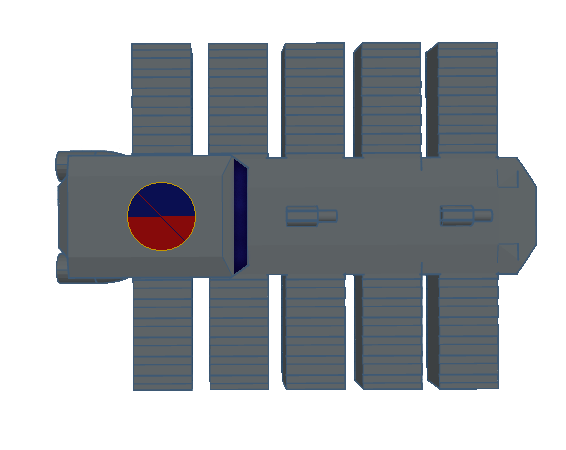
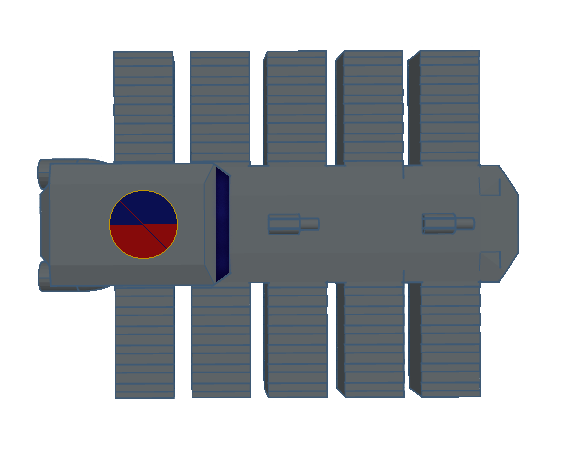
Add shield overlays, health/shield bar to HUD

Changed region(s): [[0.0601, 0.0933, 0.9611, 0.9022], [0.7208, 0.4356, 0.871, 0.5289]]

diff --git a/static/js/ship.js b/static/js/ship.js
@@ -54,8 +54,25 @@ class Ship extends Phaser.GameObjects.Sprite {
         // this.updateBars();
 
         this.fireMissileTimer = null;
+        this.add_shield_overlay();
 
         // this.once('destroy', this.onPlayerShipDestroyed, this);
+    }
+
+    
+    add_shield_overlay() { 
+      console.log("Adding shield overlay to ship: ", this);
+      let aspectRatio = this.height / this.width;
+      let shield = this.scene.add.image(this.x, this.y, 'shieldOverlay');
+
+      shield.setOrigin(0.5, 0.5);
+      shield.setAlpha(0.6);
+      shield.displayWidth = this.displayWidth * 1.1;
+      shield.displayHeight = this.displayHeight * 1.1;
+
+      // shield.setScale(aspectRatio, 1);
+
+      this.shield = shield;
     }
 
 
@@ -63,10 +80,17 @@ class Ship extends Phaser.GameObjects.Sprite {
       this.target = ship;
       this.fireMissileTimer = this.scene.time.addEvent({
           delay: Math.random() * 2500 + 750,          // delay in milliseconds
-          callback: () => this.fireMissile(300),
+          callback: this.fire_at_target,
           callbackScope: this,
           loop: true             // set to false if you don't want it to repeat
       });
+    }
+
+    fire_at_target() {
+      const missileSpeed = 300;
+      if (this.has_target()) {
+        this.fireMissile(missileSpeed)
+      }
     }
 
     interceptCourse(target, speed) {
@@ -112,6 +136,7 @@ class Ship extends Phaser.GameObjects.Sprite {
       if (this.has_target()) {
         this.move_towards_target();
       }
+      this.shield.x = this.x; this.shield.y = this.y; this.shield.rotation = this.rotation;
       // this.updateBars();
     }
 
@@ -119,10 +144,15 @@ class Ship extends Phaser.GameObjects.Sprite {
     takeDamage(amount) {
         // console.log("Taking damage");
         this.shields -= amount;
-        if (this.shields < 0) {
+        if (this.shields <= 0) {
             this.hull += this.shields;
             this.shields = 0;
+            this.shield.setAlpha(0.0);
+        } else {
+          const shieldPercentage = this.shields / this.maxShields;
+          this.shield.setAlpha(0.2 + 0.4 * shieldPercentage);
         }
+
         if (this.hull <= 0) {
             this.destroy();
         }
@@ -139,6 +169,7 @@ class Ship extends Phaser.GameObjects.Sprite {
     }
 
     destroy(fromScene) {
+        this.shield.destroy();
         // Cancel the fire missile timer
         if (this.fireMissileTimer) {
             this.fireMissileTimer.remove();

diff --git a/static/js/main_scene.js b/static/js/main_scene.js
@@ -1,3 +1,5 @@
+let mainScene = null;
+
 class MainScene extends Phaser.Scene {
     constructor() {
         super({ key: 'MainScene' });
@@ -15,6 +17,7 @@ class MainScene extends Phaser.Scene {
     preload() { 
         this.load.image('ping', 'assets/ping.png');
         this.load.image('gameover', 'assets/gameover.png');
+        this.load.image('shieldOverlay', 'assets/shield_overlay.png');
 
         const shipdata = this.cache.json.get('shipdata');
         console.log("Found ship data: ", shipdata);
@@ -30,8 +33,8 @@ class MainScene extends Phaser.Scene {
 
     adjustZoom(deltaY) {
         const zoomFactor = 0.1; // Change this value to adjust the zoom sensitivity
-        const minZoom = 0.5; // Minimum zoom level
-        const maxZoom = 2; // Maximum zoom level
+        const minZoom = 0.3; // Minimum zoom level
+        const maxZoom = 1; // Maximum zoom level
 
         let newZoom = this.cameras.main.zoom;
 
@@ -132,6 +135,8 @@ class MainScene extends Phaser.Scene {
     }
 
     create() {
+        mainScene = this;
+
         this.stage = this.cache.json.get(this.stage_id);
         this.ships = this.physics.add.group();
         this.missiles = this.physics.add.group();
@@ -261,6 +266,7 @@ class MainScene extends Phaser.Scene {
         if (this.stage.interactive) {
             this.uiScene.renderMinimap(this.ships.getChildren());
             this.uiScene.renderCooldowns(this.cooldowns);
+            this.uiScene.renderHP(this.ship);
         }
     }
 

diff --git a/static/js/ui_scene.js b/static/js/ui_scene.js
@@ -13,6 +13,26 @@ class UIScene extends Phaser.Scene {
     ];
 
     this.cooldownOverlays = {};
+
+    this.barWidth = 200;
+    this.barHeight = 30;
+
+    this.healthBar = this.add.graphics({x: 20, y: 20});
+    this.shieldBar = this.add.graphics({x: 20, y: 70});
+  }
+
+  renderHP(ship) {
+    this.healthBar.clear();
+    this.shieldBar.clear();
+
+    let healthPercentage = ship.hull / ship.maxHull;
+    let shieldPercentage = ship.shields / ship.maxShields;
+
+    this.healthBar.fillStyle(0xff0000);
+    this.healthBar.fillRect(0, 0, this.barWidth * healthPercentage, this.barHeight);
+
+    this.shieldBar.fillStyle(0x0000ff);
+    this.shieldBar.fillRect(0, 0, this.barWidth * shieldPercentage, this.barHeight);
   }
 
   renderCooldowns(cooldowns = {}) {
@@ -39,7 +59,7 @@ class UIScene extends Phaser.Scene {
   }
 
   renderHotbar() {
-    const barWidth = 600;
+    const barWidth = 300;
     const barHeight = 100;
     const barX = (this.cameras.main.width - barWidth) / 2;
     const barY = this.cameras.main.height - barHeight - 20;
